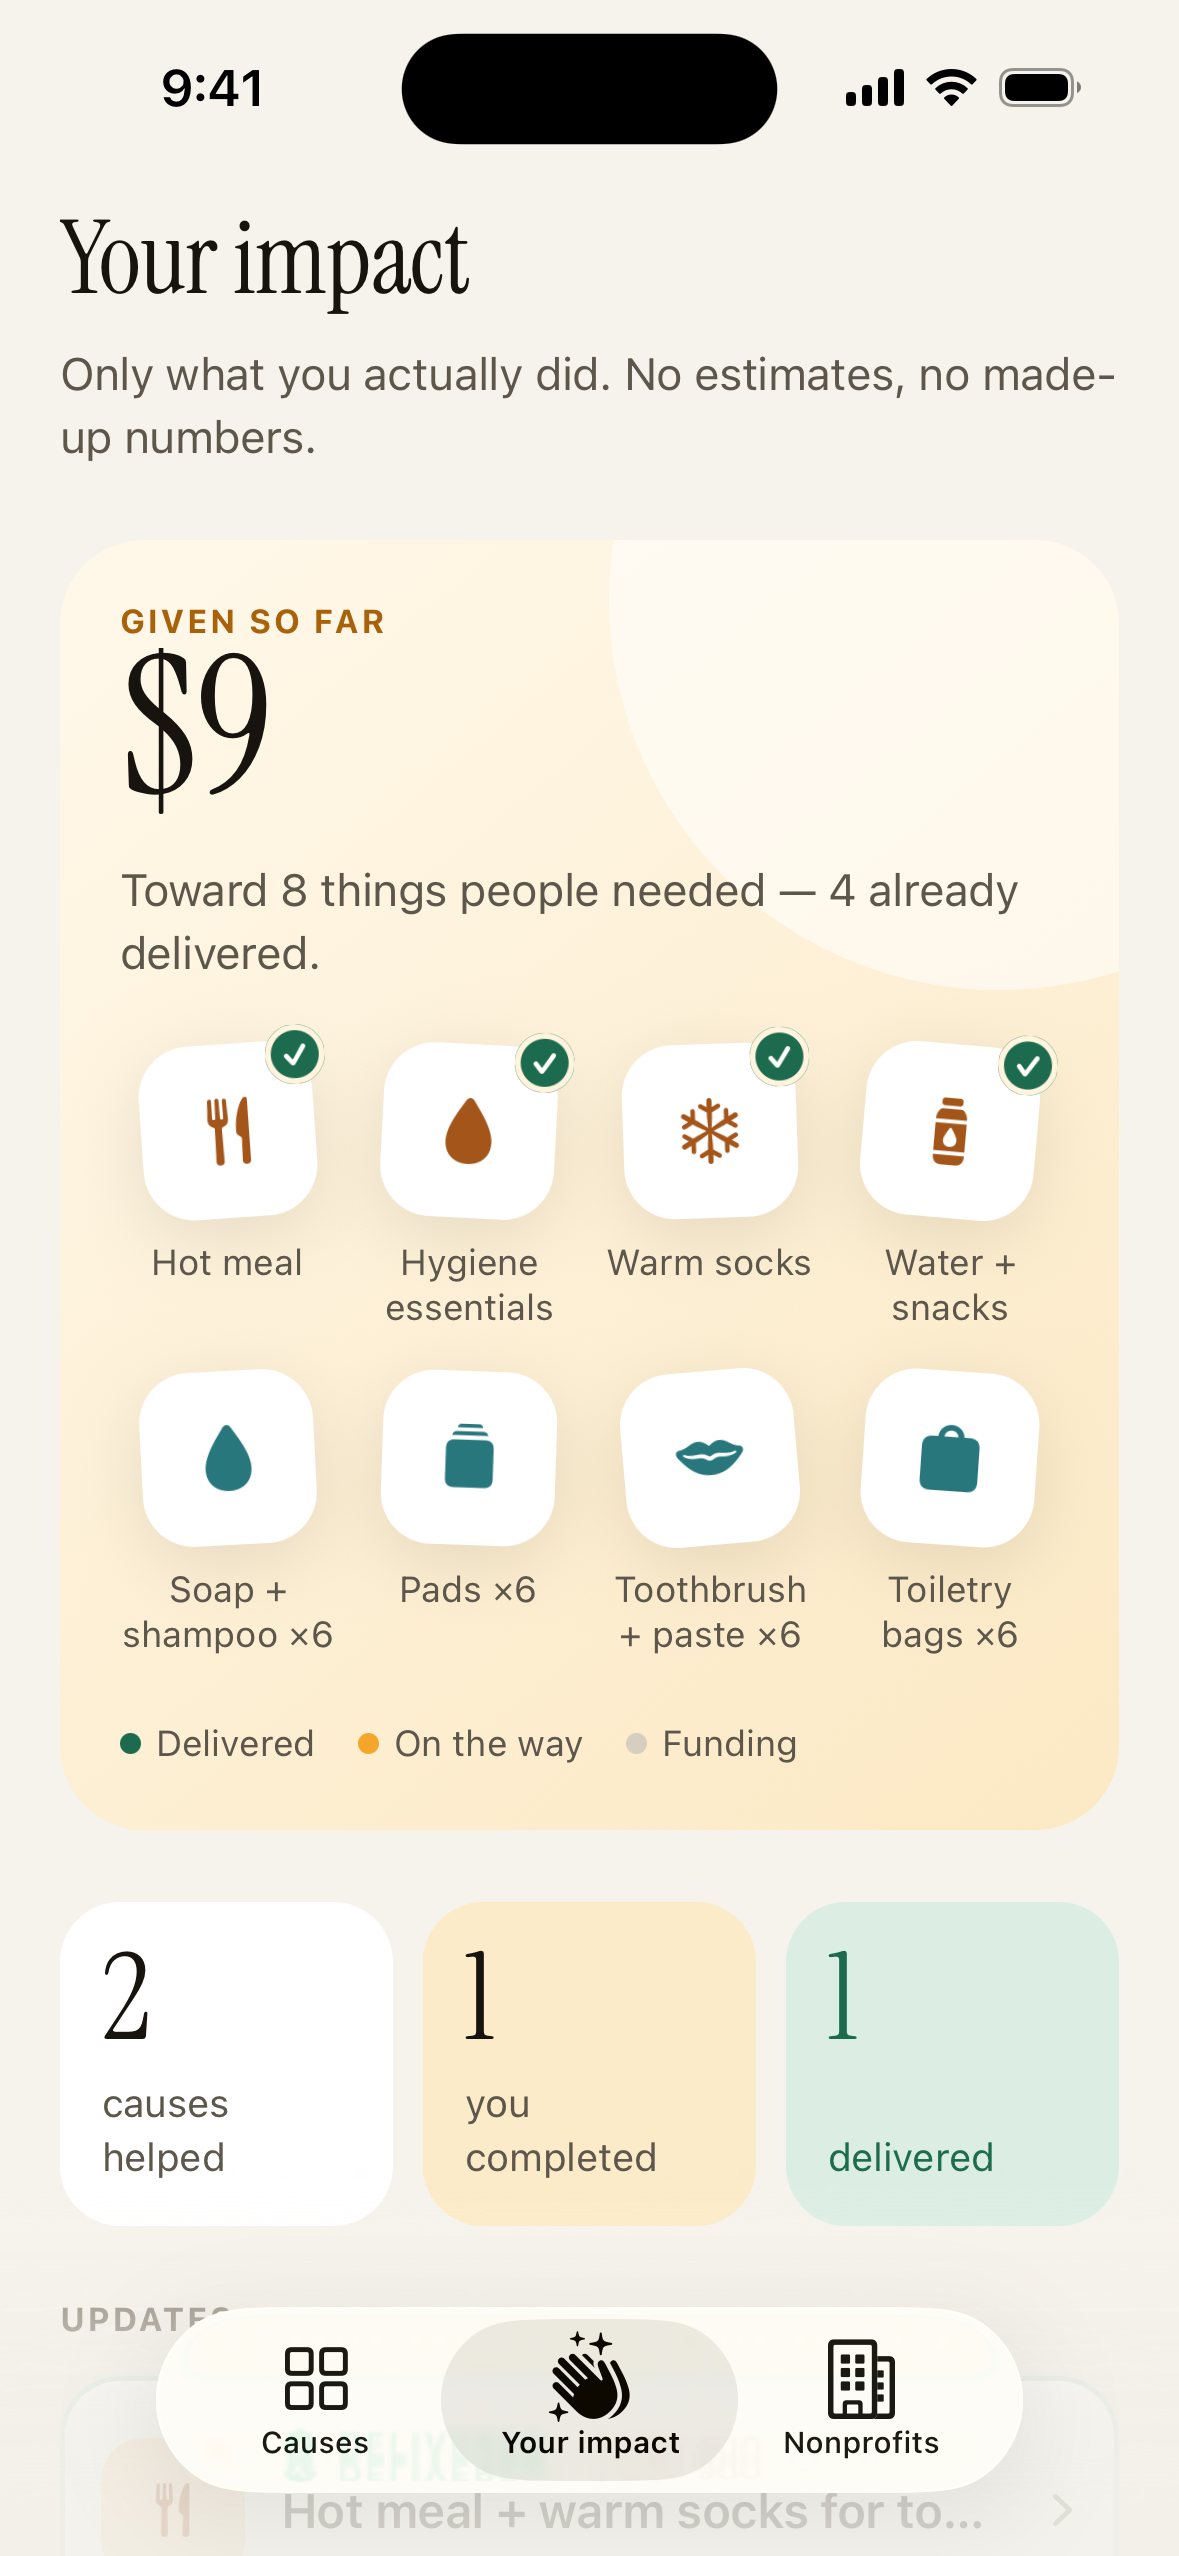
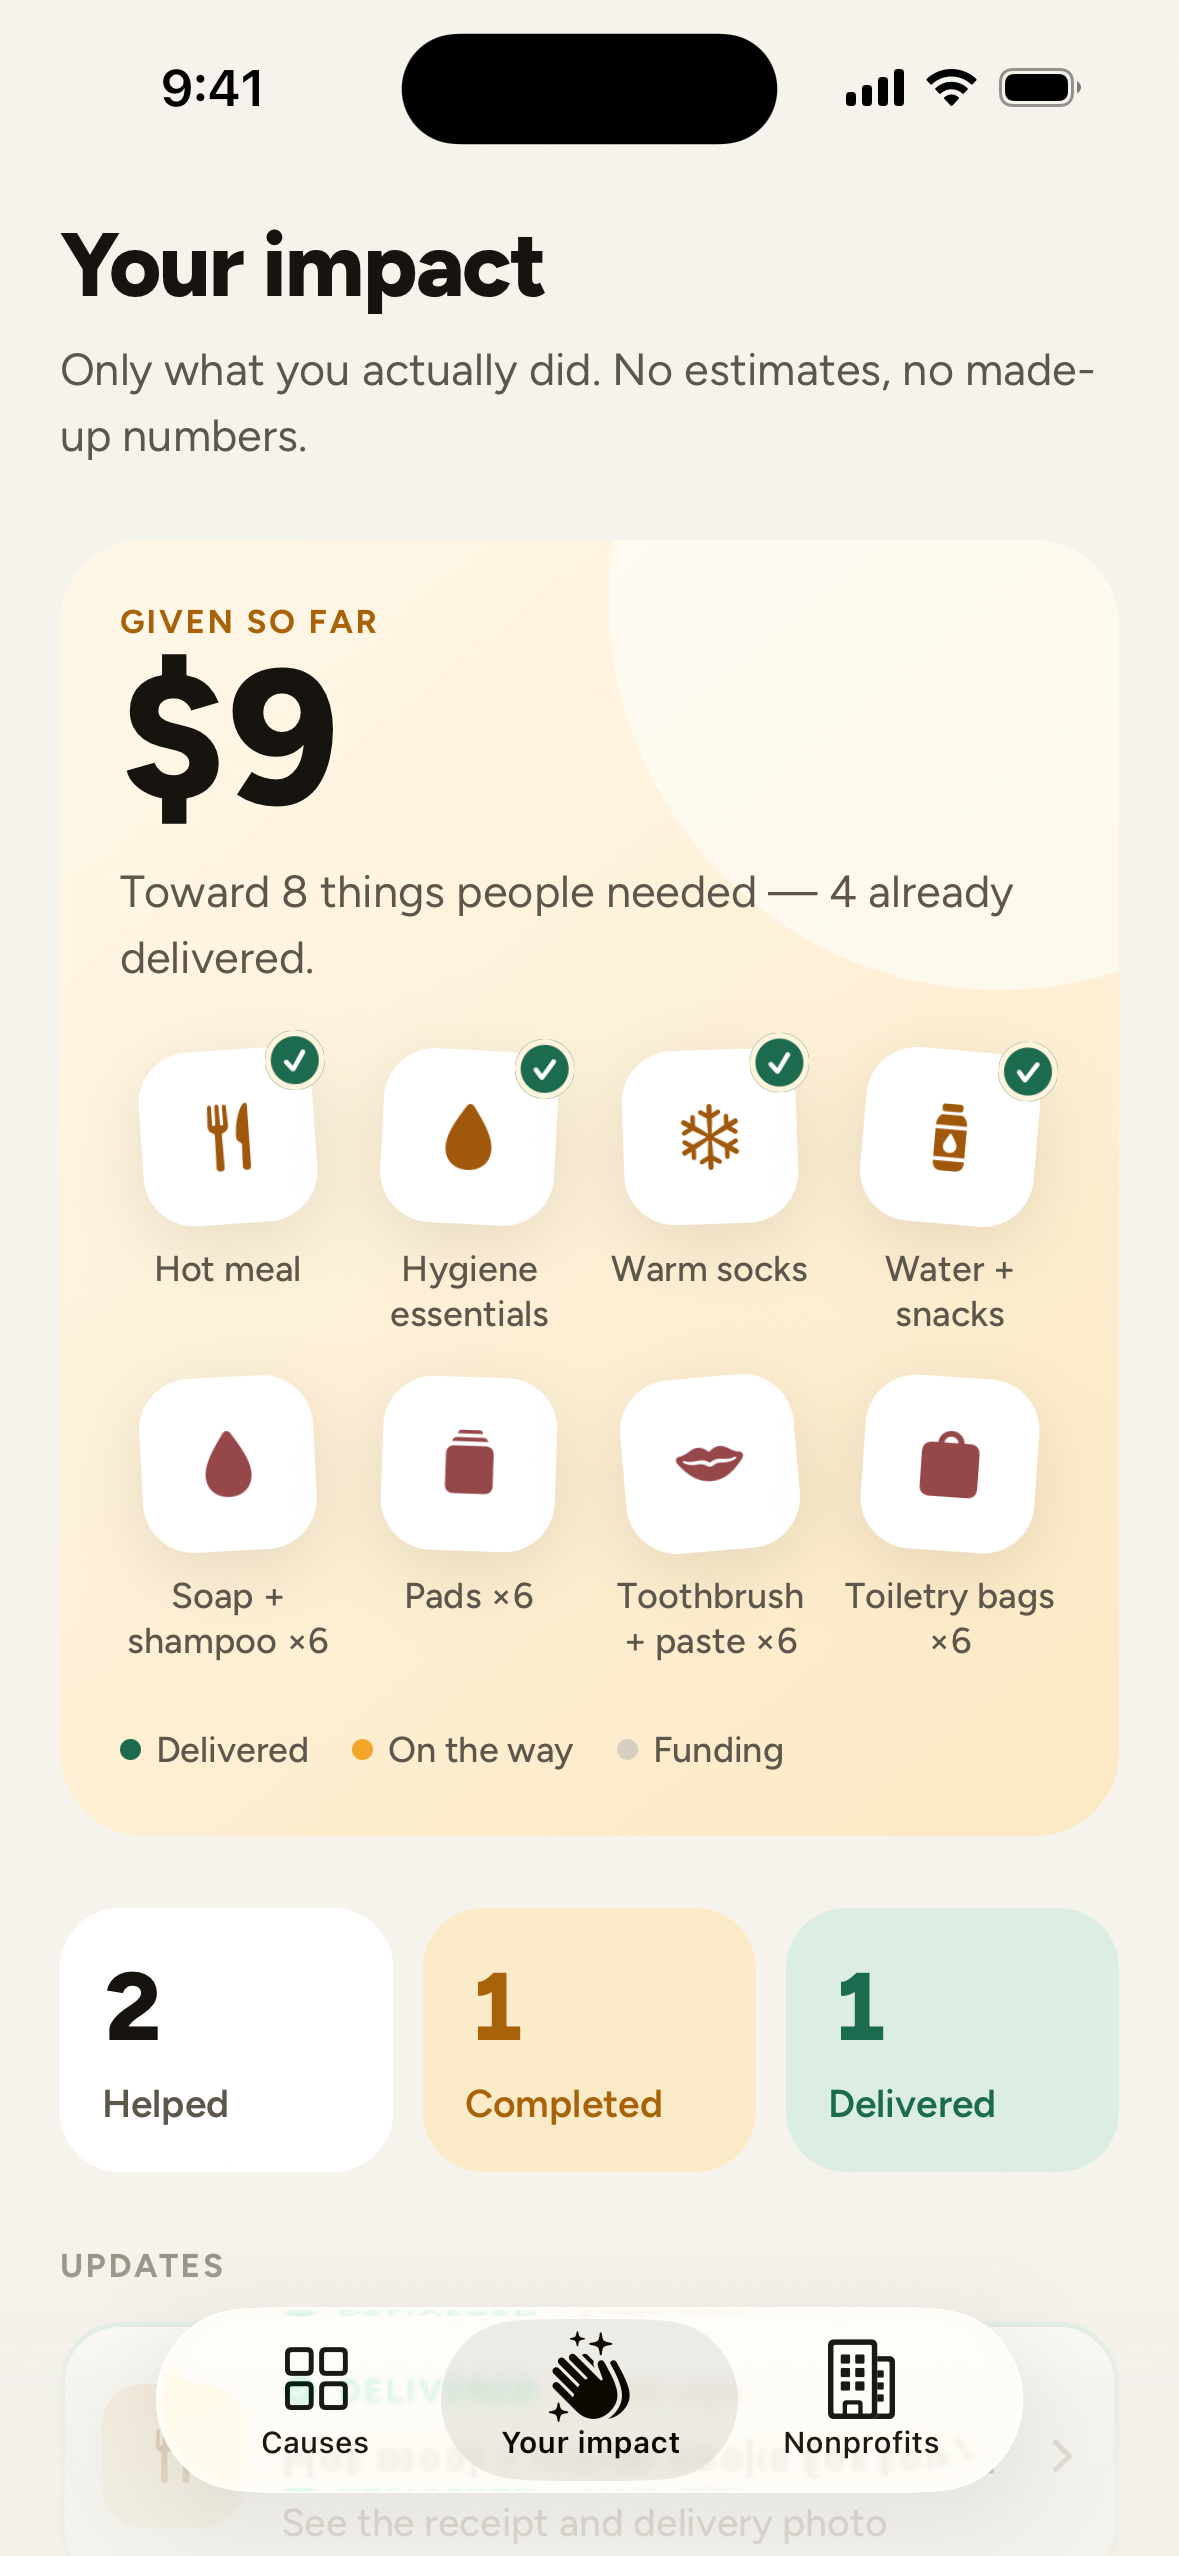
Screenshots and gallery from a real run with the new type and flows; docs: Figtree, 3-step posting, 2-step proof

diff --git a/src/components/ShieldReview.tsx b/src/components/ShieldReview.tsx
@@ -39,6 +39,17 @@ type Props = {
 
 const BEAM = 90;
 
+/** Locked findings of one kind read as one row ("2 faces"); choices stay one row each. */
+function groupFindings(findings: Finding[]) {
+  const rows: (Finding & { count: number })[] = [];
+  for (const f of findings) {
+    const same = f.locked && !f.advisory ? rows.find((r) => r.locked && !r.advisory && r.kind === f.kind) : undefined;
+    if (same) same.count += 1;
+    else rows.push({ ...f, count: 1 });
+  }
+  return rows.map((r) => (r.count > 1 ? { ...r, label: `${r.count} ${r.label.toLowerCase()}s` } : r));
+}
+
 const KIND_SYMBOL: Record<Finding['kind'], string> = {
   face: 'face.dashed',
   plate: 'car.fill',
@@ -67,6 +78,7 @@ export function ShieldReview({
   const available = shieldAvailable();
   const [phase, setPhase] = useState<Phase>(available ? 'scanning' : 'error');
   const [findings, setFindings] = useState<Finding[]>([]);
+  const rows = groupFindings(findings);
   const [safeText, setSafeText] = useState(0);
   const [ms, setMs] = useState(0);
   const [safeUri, setSafeUri] = useState<string | null>(null);
@@ -272,18 +284,18 @@ export function ShieldReview({
         <Animated.View entering={FadeInDown.duration(400)} style={{ gap: space.md }}>
           <View style={{ gap: 4 }}>
             <Txt variant="headline">
-              {findings.length === 0
+              {rows.length === 0
                 ? 'Nothing identifying found.'
-                : `${findings.length} thing${findings.length > 1 ? 's' : ''} to review`}
+                : `${rows.length} thing${rows.length > 1 ? 's' : ''} to review`}
             </Txt>
             <Txt variant="caption">
               Checked on this device in {ms} ms · {safeText} other text area{safeText === 1 ? '' : 's'} look safe ·
               nothing uploaded
             </Txt>
           </View>
-          {findings.length > 0 ? (
+          {rows.length > 0 ? (
             <View style={styles.card}>
-              {findings.map((f, i) => (
+              {rows.map((f, i) => (
                 <View key={f.id} style={[styles.finding, i > 0 && styles.findingBorder]}>
                   <View
                     style={[
@@ -403,7 +415,7 @@ const styles = StyleSheet.create({
   },
   statusRow: { flexDirection: 'row', alignItems: 'center', gap: 8, justifyContent: 'center' },
   card: { backgroundColor: color.card, borderRadius: radius.lg, paddingHorizontal: space.md },
-  finding: { flexDirection: 'row', alignItems: 'center', gap: 12, paddingVertical: 12 },
+  finding: { flexDirection: 'row', alignItems: 'center', gap: 12, paddingVertical: 10 },
   findingBorder: { borderTopWidth: StyleSheet.hairlineWidth, borderTopColor: color.line },
   findingIcon: { width: 34, height: 34, borderRadius: 10, alignItems: 'center', justifyContent: 'center' },
   safeRow: {

diff --git a/scripts/video/gallery.py b/scripts/video/gallery.py
@@ -18,6 +18,7 @@ ITEMS = [
     ("06b-shield-protected.png", "Privacy Shield", "Protected before it’s posted.", "Faces blurred, metadata stripped, nothing uploaded."),
     ("08-proof.png", "Proof", "It got there.", "Receipt, leftover and a privacy-safe photo."),
     ("09-impact.png", "Your impact", "Things, not points.", "Only what you did: delivered, on the way, funding."),
+    ("07d-publish-review.png", "For nonprofits", "Post a need in three steps.", "Category and icons from what you type; one confirmation."),
     ("10-supporter.png", "RevenueCat", "Keep Handful free.", "Offering, entitlement, restore — the part that ships."),
 ]
 

diff --git a/submission/DEVPOST.md b/submission/DEVPOST.md
@@ -32,6 +32,7 @@ When organizations do try to show impact, it often goes wrong in the other direc
 - **Complete it.** When a cause is close, Handful shows exactly what’s left and lets you finish it with one tap. “Only $4 left” is the whole interaction.
 - **Follow the money.** Every cause has the same four-step timeline: verified & published → fully funded → items purchased (receipt, with any leftover moved to the next cause) → delivered with proof.
 - **Privacy Shield.** When the nonprofit attaches a delivery photo, an on-device Swift module using Apple Vision finds faces, text (plates, ID numbers, addresses, phone numbers) and documents, and reads GPS metadata. It blurs what it found, lets staff compare with the original, and re-encodes a fresh JPEG without GPS, camera or capture metadata. Faces are always blurred in public posts — that isn’t a setting. The same idea applies to text: a story check blocks exact addresses, where someone sleeps, diagnoses, children’s ages and full names before a cause can be published.
+- **Easy for nonprofits.** Posting a cause takes three steps: the need and its budget (category and item icons are guessed from what they type), a short story with an optional photo, then a preview exactly as donors will see it and one confirmation of consent and privacy. Posting proof is two steps: receipt, then photo + note.
 - **Proof for donors.** When proof is posted, donors get a “Delivered ✓” update with the receipt and the protected photo.
 - **An honest impact screen.** It starts at zero and only counts what you actually did.
 
@@ -42,7 +43,7 @@ When organizations do try to show impact, it often goes wrong in the other direc
   - Every gift is a consumable (`handful_gift_1` … `handful_gift_20`, whole-dollar tiers so “Complete it” always matches the exact remainder), bought with `getProducts` + `purchaseStoreProduct`. The transaction ID is stored with the gift and shown in the donor’s history.
   - **Handful Supporter** is an auto-renewing subscription with an offering (`supporter`), a `$rc_monthly` package and a `supporter` entitlement read from `CustomerInfo`, with a live update listener. The paywall takes its price from the offering’s package and has **Restore purchases** (`restorePurchases`).
 - **Privacy Shield:** a local Expo module in Swift: `VNDetectFaceRectanglesRequest`, `VNRecognizeTextRequest`, `VNDetectDocumentSegmentationRequest`, ImageIO for metadata, Core Image (pixellate + Gaussian blur through a feathered mask) for redaction. Text classification (plates incl. Chilean formats, RUT and other ID numbers, addresses, phones, emails) happens in TypeScript.
-- **Design:** paper, ink and one warm accent. Instrument Serif for the human moments, SF Pro for everything functional. Covers are still lifes of the items being funded, generated from each cause’s budget — no stock photos of people in need. Color carries meaning everywhere: sun is action and progress, green is trust and delivery, violet is privacy.
+- **Design:** paper, ink and one warm accent. One type family (Figtree) for words and numbers, with a single warm accent word in headlines. Covers are still lifes of the items being funded, generated from each cause’s budget — no stock photos of people in need. Color carries meaning everywhere: sun is action and progress, green is trust and delivery, violet is privacy.
 - **Motion with a job:** every animation explains something. The gift meter shows your share landing before you pay; covers’ items float gently; the cause cover stretches and parallaxes; the step that’s happening now pulses; a small burst of warm sparks marks a completed cause; “Your impact” is a shelf of the actual things you funded, each marked delivered, on the way or funding. Onboarding pages move in layers. Everything respects Reduce Motion.
 
 ## Challenges we ran into
@@ -77,7 +78,7 @@ When organizations do try to show impact, it often goes wrong in the other direc
 - **Clear, useful idea:** small, specific, verified needs with proof — solving the “where does my money go?” problem for donors and the “how do we ask for $18?” problem for small nonprofits.
 - **Working app:** a real iOS build with the full loop — browse, complete a cause, Test Store purchase, impact, nonprofit posting, Privacy Shield, proof, donor update.
 - **Thoughtful RevenueCat use:** consumables for the prototype’s gift flow, and a subscription + entitlement + offering for the part RevenueCat should power in production, with the reasoning written down.
-- **Care in the build:** native Swift module, design system, motion and haptics, accessibility labels, 31 unit tests on the privacy rules and the gift/proof state machine (one caught a real bug in address detection), strict TypeScript, ESLint with React Compiler rules, CI, honest demo labeling, and a README that says what isn’t built yet.
+- **Care in the build:** native Swift module, design system, motion and haptics, accessibility labels, 35 unit tests on the privacy rules and the gift/proof state machine (one caught a real bug in address detection), strict TypeScript, ESLint with React Compiler rules, CI, honest demo labeling, and a README that says what isn’t built yet.
 
 ## Privacy approach
 

diff --git a/README.md b/README.md
@@ -48,9 +48,13 @@ flowchart LR
 |---|---|---|---|
 | ![](submission/screenshots/01-home.png) | ![](submission/screenshots/02-cause.png) | ![](submission/screenshots/03-cause-budget.png) | ![](submission/screenshots/04-give.png) |
 
-| Privacy Shield: found | Privacy Shield: protected | Publish a cause | Delivered, with proof |
+| Privacy Shield: found | Privacy Shield: protected | Post a cause (1 of 3) | Review & publish |
 |---|---|---|---|
-| ![](submission/screenshots/06-shield-review.png) | ![](submission/screenshots/06b-shield-protected.png) | ![](submission/screenshots/07-publish.png) | ![](submission/screenshots/08-proof.png) |
+| ![](submission/screenshots/06-shield-review.png) | ![](submission/screenshots/06b-shield-protected.png) | ![](submission/screenshots/07-publish.png) | ![](submission/screenshots/07d-publish-review.png) |
+
+| Post proof | Delivered, with proof | Donor notification | Protected tent photo |
+|---|---|---|---|
+| ![](submission/screenshots/07c-proof-post.png) | ![](submission/screenshots/08-proof.png) | ![](submission/screenshots/08c-delivered-notification.png) | ![](submission/screenshots/08b-proof-tent.png) |
 
 | Your impact | Gift history (RevenueCat) | Supporter | Nonprofit studio |
 |---|---|---|---|
@@ -94,12 +98,12 @@ src/
     give/[id].tsx         Gift sheet → RevenueCat
     success/[id].tsx      Ring-closing success
     proof/[id].tsx        Delivery proof (donor view)
-    nonprofit/new.tsx     Create cause (5 steps)
-    nonprofit/proof/[id]  Post proof (receipt → photo → note)
+    nonprofit/new.tsx     Post a cause: need & budget → story & photo → review (one confirmation)
+    nonprofit/proof/[id]  Post proof: receipt → photo + note
     supporter.tsx         Supporter membership (RevenueCat subscription)
   components/             Design system: Txt, Button, Pill, Ring, CoverArt, Timeline, ShieldReview…
   data/                   Types, categories, demo seed data
-  lib/                    purchases (RevenueCat), privacy (Shield logic), notifications, format
+  lib/                    purchases (RevenueCat), privacy (Shield logic), guess (category/icon from text), notifications, format
   store/useStore.ts       Zustand + AsyncStorage (all state is local)
   theme/tokens.ts         Color, type, spacing, radius, motion
 modules/privacy-shield/   Local Expo module (Swift, Vision, Core Image)
@@ -107,7 +111,7 @@ modules/privacy-shield/   Local Expo module (Swift, Vision, Core Image)
 
 No backend, no login. State lives on the device. The “nonprofit” and the “donor” are the same phone in this demo; a delivered update fires a local notification to stand in for a push.
 
-**Stack:** Expo SDK 57, React Native 0.86 (New Architecture), Expo Router (native tabs), TypeScript, Reanimated 4, react-native-svg, expo-symbols (SF Symbols), expo-haptics, expo-image-picker, expo-notifications, Zustand, react-native-purchases 10, Instrument Serif.
+**Stack:** Expo SDK 57, React Native 0.86 (New Architecture), Expo Router (native tabs), TypeScript, Reanimated 4, react-native-svg, expo-symbols (SF Symbols), expo-haptics, expo-image-picker, expo-notifications, Zustand, react-native-purchases 10, Figtree.
 
 ## Run it
 
@@ -217,4 +221,4 @@ What would change before real money moves:
 
 ## License
 
-[MIT](LICENSE). Fonts: Instrument Serif (SIL Open Font License). Icons: SF Symbols (Apple, used on Apple platforms under Apple’s license).
+[MIT](LICENSE). Font: Figtree (SIL Open Font License). Icons: SF Symbols (Apple, used on Apple platforms under Apple’s license).

diff --git a/docs/VIDEO.md b/docs/VIDEO.md
@@ -1,7 +1,7 @@
 # Demo video — script, shot list, edit
 
 **Length:** 1:50 (hard cap 2:00). **Format:** 1920×1080, 30 fps, H.264 + AAC, for YouTube (unlisted is fine, but it must be public-viewable).
-**Look:** warm paper background (#F6F3EC), the app’s own serif (Instrument Serif) for captions, the phone recording framed without a device bezel, rounded corners.
+**Look:** warm paper background (#F6F3EC), the app’s own type (Figtree ExtraBold, one accent line in deep sun) for captions, the phone recording framed without a device bezel, rounded corners.
 **Audio:** original ambient track generated for this video (no third-party music). Optional voice-over (script below) — captions carry the story on their own.
 
 The first 15 seconds do the work: problem → the one line that explains the product → the app.
@@ -36,7 +36,7 @@ Record each with `xcrun simctl io booted recordVideo --codec h264 <file>.mp4`, s
 ## Edit (automated)
 
 `scripts/video/build.sh` composes the recordings, title cards and captions with ffmpeg (no third-party editor needed):
-- Title cards rendered with Pillow in Instrument Serif at 1920×1080.
+- Title cards rendered with Pillow in Figtree at 1920×1080.
 - Phone recordings scaled to 980 px tall, rounded-corner mask, soft shadow, left-aligned; captions on the right.
 - Cross-fades 8 frames between shots, music ducked −6 dB under voice-over if present.
 - Export: `submission/video/handful-demo.mp4` (H.264 High, CRF 18, 30 fps, AAC 192 kbps, `+faststart`).
